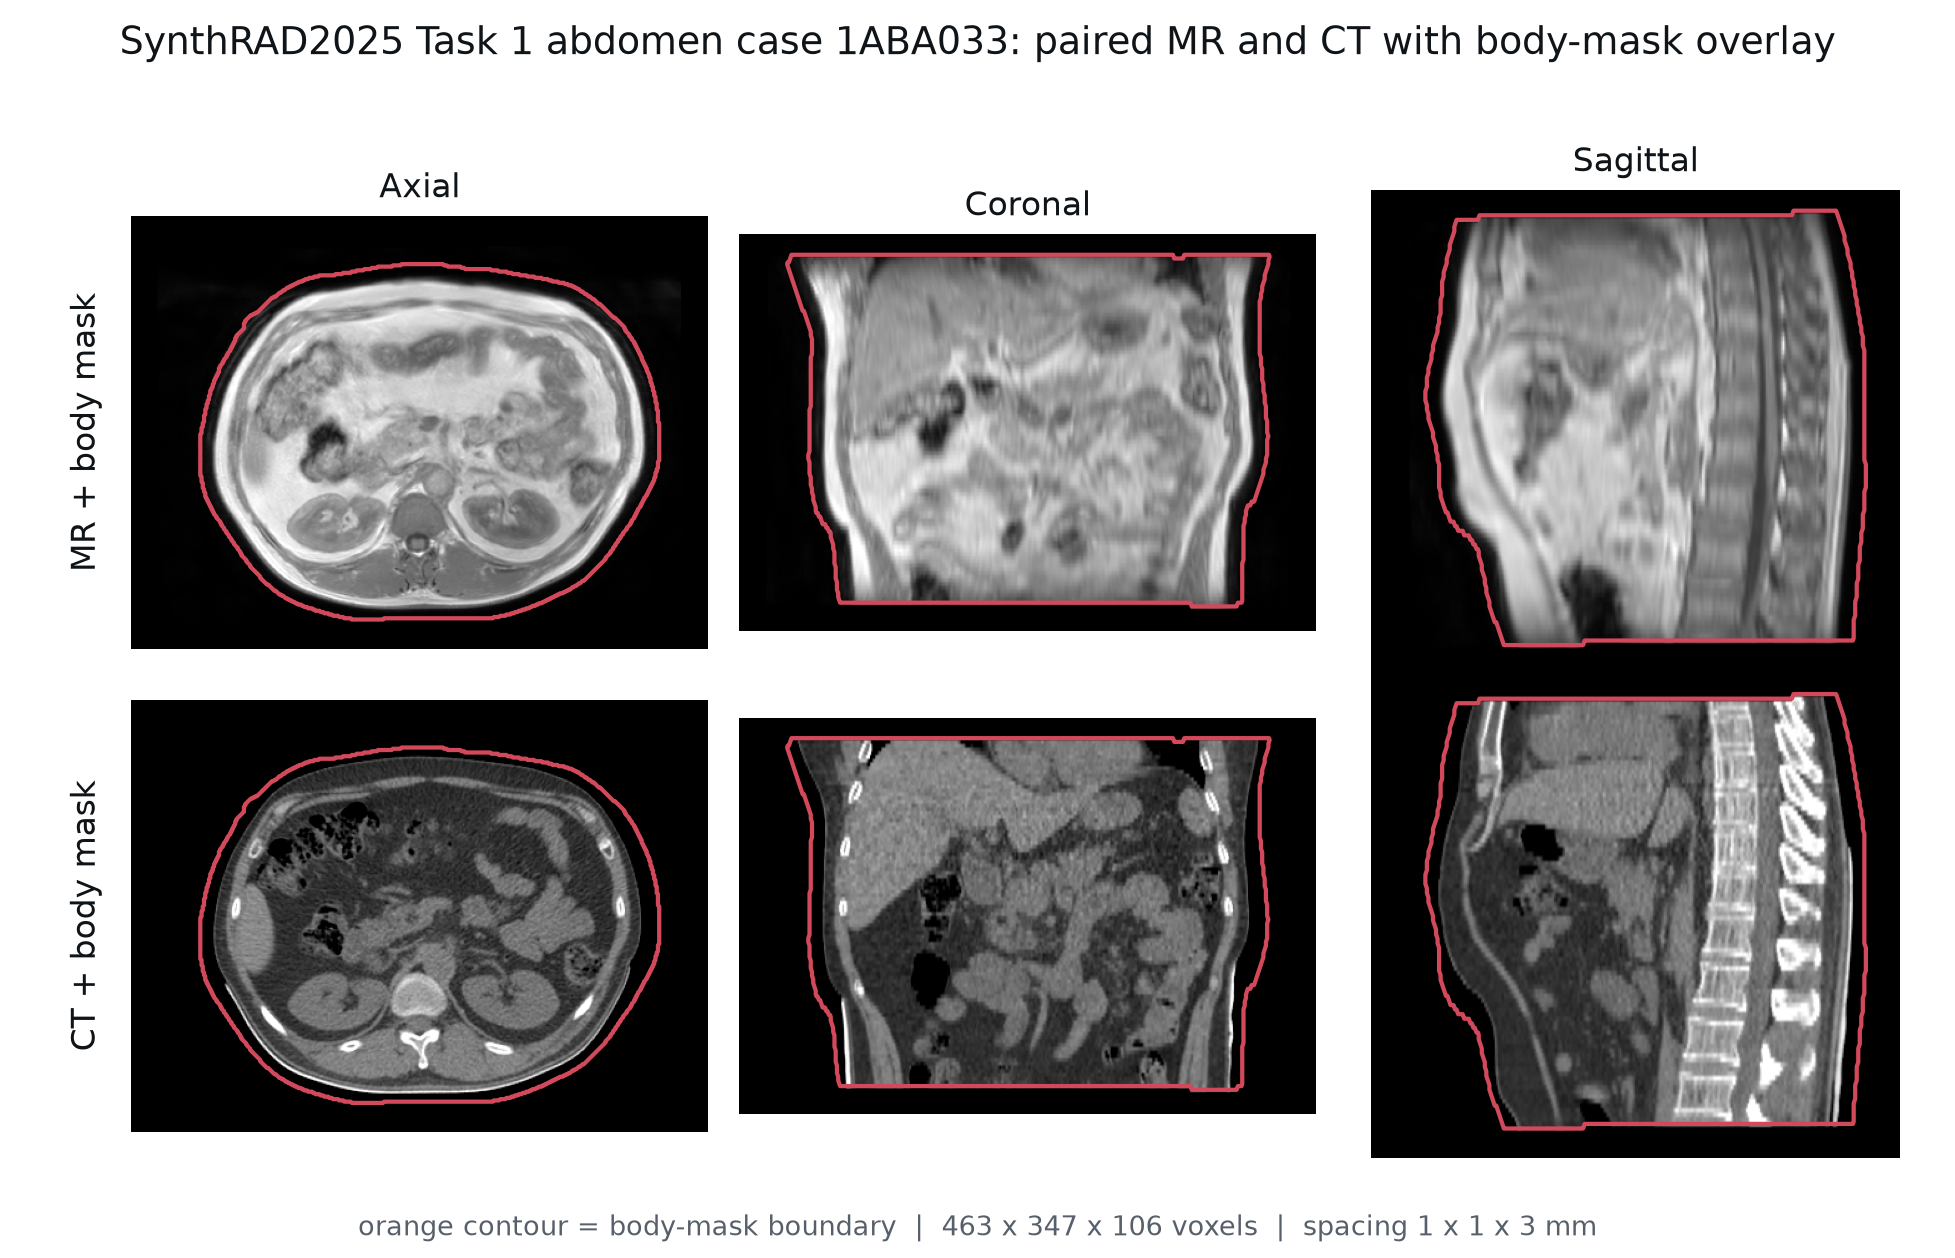
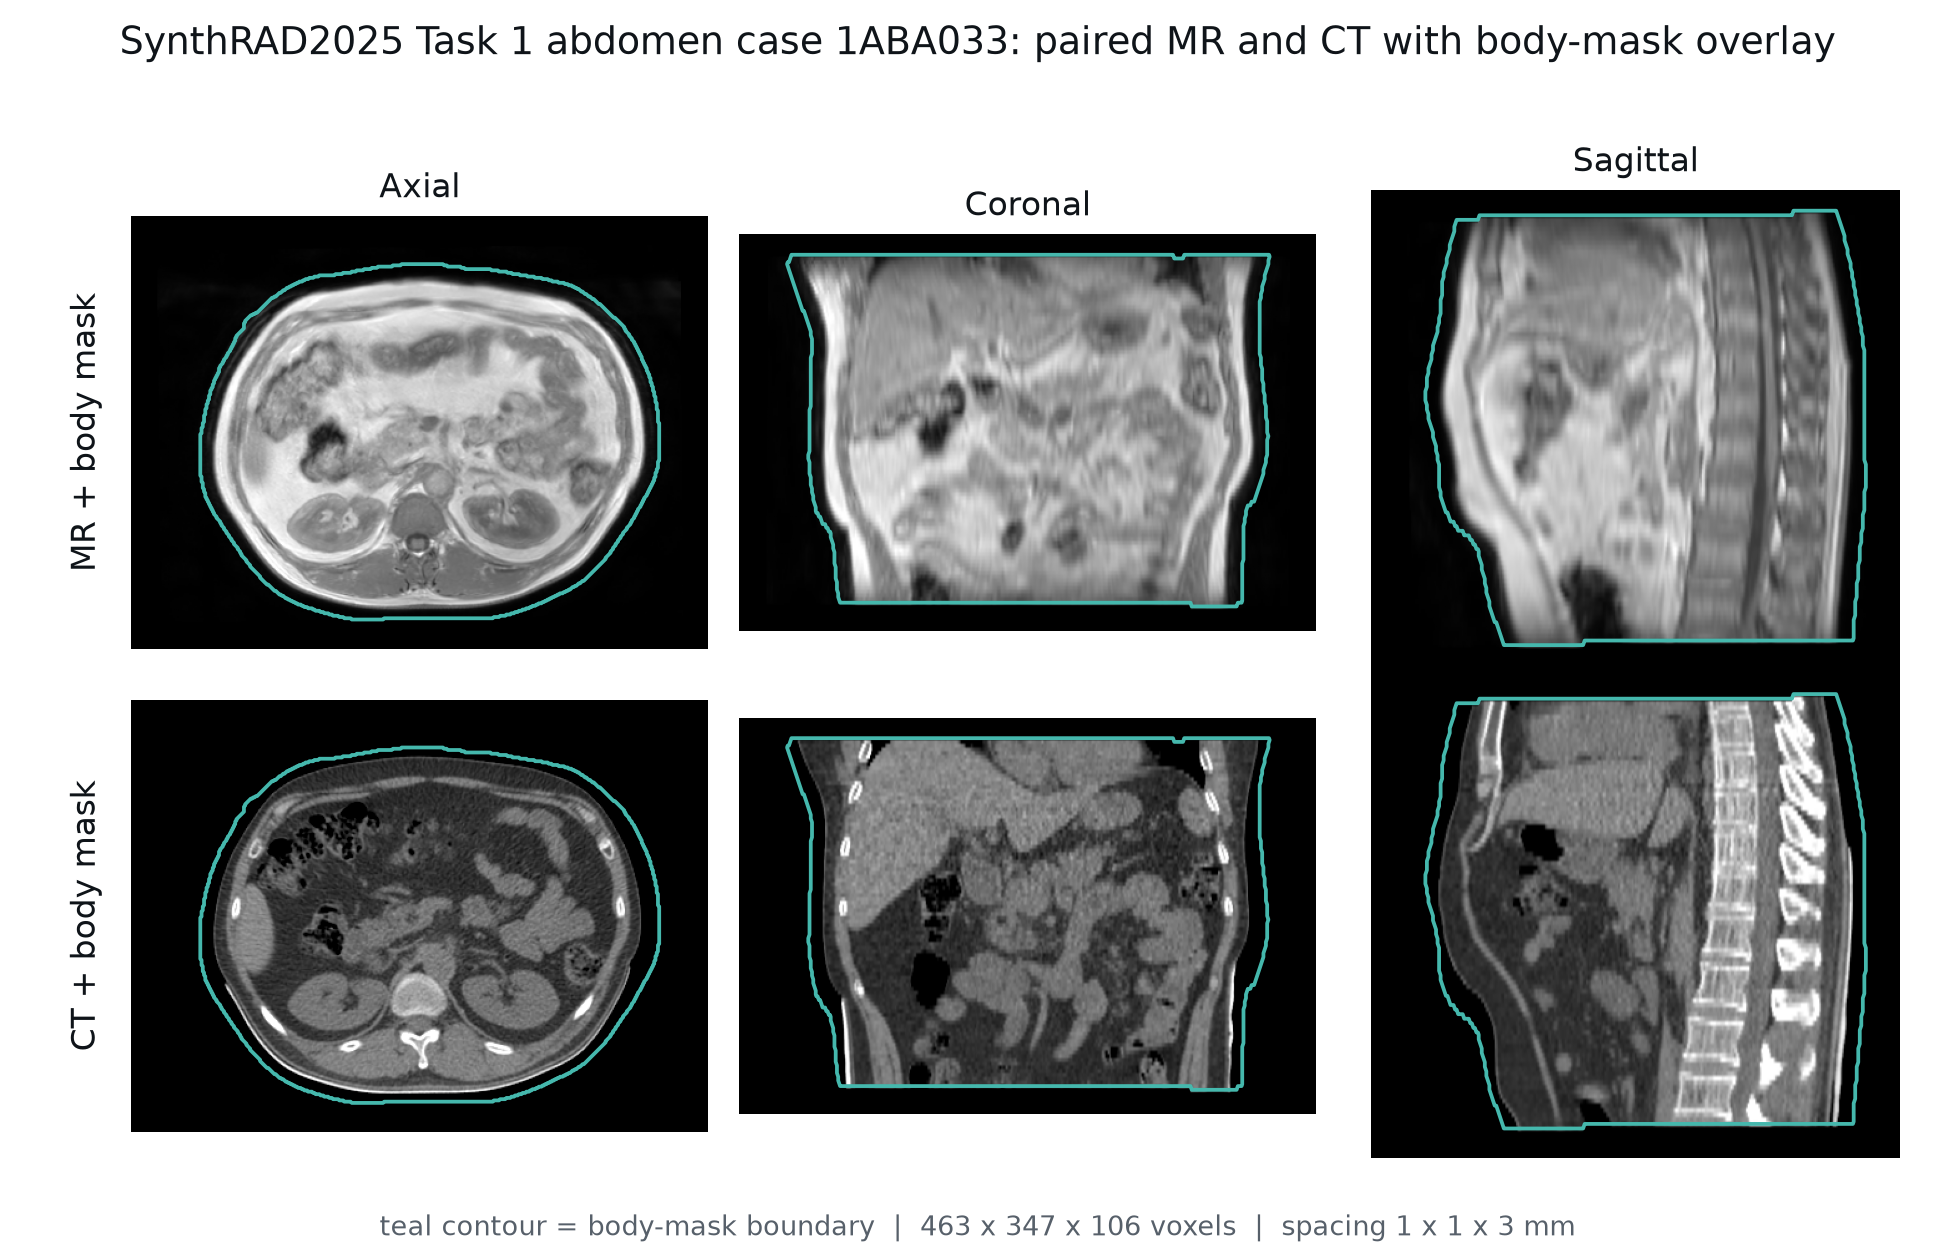
Refine hero and interactive cues

diff --git a/styles.css b/styles.css
@@ -38,7 +38,7 @@ button,summary,a{outline-offset:4px}
 .button{display:inline-flex;align-items:center;gap:10px;padding:13px 20px;border-radius:999px;color:var(--navy);background:var(--mint);font-weight:750;text-decoration:none}
 .button:hover{background:var(--white)}
 .button-small{padding:9px 15px;font-size:14px}
-.hero-grid{max-width:var(--max);margin:auto;padding:76px 34px 90px;display:grid;grid-template-columns:minmax(390px,.85fr) minmax(480px,1.15fr);gap:72px;align-items:center}
+.hero-grid{max-width:var(--max);margin:auto;padding:76px 34px 90px;display:grid;grid-template-columns:minmax(380px,.78fr) minmax(500px,1.22fr);gap:56px;align-items:center}
 .eyebrow,.section-kicker,.label,.evidence-label{margin:0 0 12px;color:var(--teal);font-size:12px;font-weight:800;letter-spacing:.13em;text-transform:uppercase}
 .hero .eyebrow,.chapter-dark .section-kicker{color:var(--mint)}
 .hero h1{margin:0;font:650 clamp(64px,8vw,112px)/.92 "Segoe UI",Arial,sans-serif;letter-spacing:-.06em}
@@ -168,7 +168,7 @@ button,summary,a{outline-offset:4px}
 .evidence-table{display:block}.evidence-table>.evidence-label{display:block}.table-wrap{overflow-x:auto;margin:16px 0}
 table{width:100%;border-collapse:collapse;background:var(--white)}th,td{padding:12px 14px;border:1px solid var(--line);text-align:center}th:first-child,td:first-child{text-align:left}th{background:var(--navy);color:var(--white)}
 
-.notebook-link{margin-top:28px;padding:16px 20px;display:flex;align-items:center;gap:20px;flex-wrap:wrap;border-top:1px solid var(--line);border-bottom:1px solid var(--line)}.notebook-link span{color:var(--muted);font-size:13px}.notebook-link a{font-weight:700}
+.notebook-link{margin-top:28px;padding:15px 18px;display:flex;align-items:center;gap:20px;flex-wrap:wrap;border:1px solid var(--line);border-left:3px solid var(--teal);border-radius:10px;background:var(--paper)}.notebook-link span{color:var(--muted);font-size:13px}.notebook-link a{font-weight:750;text-decoration-thickness:1.5px}.notebook-link a::after{content:" ↗";text-decoration:none}
 .window-diagram{margin:40px 0;display:grid;grid-template-columns:1fr 45px 1fr 45px 1fr;gap:10px;align-items:center}.window-diagram>b{text-align:center;color:var(--teal);font-size:25px}
 .window-volume,.window-stack{min-height:180px;padding:22px;display:grid;place-items:center;position:relative;border:1px solid var(--line);border-radius:var(--radius);background:var(--white);overflow:hidden}
 .window-volume i{position:absolute;width:52%;height:52%;border:2px solid var(--teal);background:rgba(45,125,120,.08)}.window-volume i:nth-child(1){left:10%;top:10%}.window-volume i:nth-child(2){left:24%;top:24%}.window-volume i:nth-child(3){left:38%;top:38%}
@@ -181,7 +181,7 @@ table{width:100%;border-collapse:collapse;background:var(--white)}th,td{padding:
 .evaluation-rule{margin:34px 0;padding:25px;display:flex;align-items:center;gap:10px;flex-wrap:wrap;border-radius:var(--radius);color:var(--white);background:var(--navy)}.evaluation-rule strong{margin-right:10px}.evaluation-rule span{padding:7px 10px;border:1px solid rgba(255,255,255,.2);border-radius:999px}.evaluation-rule p{flex-basis:100%;margin:8px 0 0;color:rgba(255,255,255,.65)}
 .run-passport{display:grid;grid-template-columns:repeat(4,1fr);gap:14px;margin:34px 0}.run-passport>div{padding:22px;border:1px solid var(--line);border-radius:var(--radius);background:var(--white)}.run-passport strong,.run-passport span{display:block}.run-passport strong{font:23px Georgia,serif}.run-passport span{margin-top:5px;color:var(--muted);font-size:13px}
 .claims article:last-child{border-color:rgba(182,83,71,.35)}.claims article:last-child .label{color:var(--danger)}
-.field-notes{margin:30px 0;border:1px solid var(--line);border-radius:var(--radius);background:var(--white)}.field-notes summary{cursor:pointer;padding:20px 24px;display:flex;justify-content:space-between;gap:20px;font-weight:800}.field-notes summary small{color:var(--muted);font-weight:400}.field-notes>div{padding:0 24px 20px}.field-notes p{margin:12px 0}
+.field-notes{margin:30px 0;border:1px solid var(--line);border-radius:var(--radius);background:var(--white)}.field-notes summary{cursor:pointer;padding:20px 24px;display:grid;grid-template-columns:1fr auto auto;align-items:center;gap:20px;font-weight:800;list-style:none}.field-notes summary::-webkit-details-marker{display:none}.field-notes summary small{color:var(--muted);font-weight:400}.field-notes summary::after{content:"Expand +";color:var(--teal);font-size:13px;font-weight:750}.field-notes[open] summary::after{content:"Close −"}.field-notes>div{padding:0 24px 20px}.field-notes p{margin:12px 0}
 
 .takeaways{list-style:none;padding:0;margin:34px 0}.takeaways li{display:grid;grid-template-columns:50px 1fr;gap:18px;padding:18px 0;border-top:1px solid var(--line)}.takeaways span{color:var(--teal);font:13px "Cascadia Code",monospace}.takeaways p{margin:0;font-size:20px;color:var(--ink)}.takeaways strong{color:var(--ink)}
 .quiz-shell{display:grid;grid-template-columns:.7fr 1.3fr;gap:30px;margin:40px 0}.quiz-intro{padding:26px;border:1px solid var(--line);border-radius:var(--radius);background:var(--paper)}.quiz-intro .label{color:var(--teal)}.quiz-intro h3{margin:5px 0;font:29px "Segoe UI",Arial,sans-serif}.quiz-intro p:last-child{color:var(--muted)}
@@ -221,7 +221,7 @@ footer{padding:28px max(34px,calc((100vw - var(--max))/2 + 34px));display:flex;a
   .framework-flow{grid-template-columns:1fr}
   .framework-flow>b{display:block!important;transform:rotate(90deg)}
   .framework-flow article:last-child{grid-column:auto}
-  .run-passport{grid-template-columns:1fr}.repo-list a{grid-template-columns:1fr;gap:5px}.field-notes summary{display:block}.field-notes summary small{display:block;margin-top:6px}
+  .run-passport{grid-template-columns:1fr}.repo-list a{grid-template-columns:1fr;gap:5px}.field-notes summary{display:block}.field-notes summary small{display:block;margin-top:6px}.field-notes summary::after{display:block;margin-top:8px}
   footer{flex-direction:column;text-align:center}
 }
 @media(max-width:480px){

diff --git a/index.html b/index.html
@@ -33,7 +33,7 @@
         </p>
         <div class="author-line" aria-label="Course authors and affiliation">
           <p><strong>Zaiyou He</strong><span> · </span><strong>Jun Ma</strong></p>
-          <p>Molecular Imaging, University Health Network, Toronto, Canada</p>
+          <p>Molecular Imaging, University Health Network</p>
         </div>
         <div class="hero-actions">
           <a class="button" href="#course">Start the course <span aria-hidden="true">↓</span></a>
@@ -117,7 +117,7 @@
         <figure class="teaching-figure">
           <img src="figures/fig01_mr_ct_mask_triplanar.png"
                alt="Aligned abdomen MRI and CT views with body-mask contours for case 1ABA033">
-          <figcaption><strong>Read the case from top to bottom.</strong> MRI is the source and CT is the numerical target; the orange contour overlays the same body-mask boundary on both. The three columns show axial, coronal, and sagittal views of case 1ABA033. · Local public-data teaching subset</figcaption>
+          <figcaption><strong>Read the case from top to bottom.</strong> MRI is the source and CT is the numerical target; the teal contour overlays the same body-mask boundary on both. The three columns show axial, coronal, and sagittal views of case 1ABA033. · Local public-data teaching subset</figcaption>
         </figure>
 
         <div class="modality-grid">

diff --git a/code/make_course_figures.py b/code/make_course_figures.py
@@ -58,6 +58,7 @@ INK = "#0f1419"
 PAPER = "#ffffff"
 ACCENT = "#1f6feb"
 WARM = "#d1495b"
+MASK_TEAL = "#45b8ad"
 
 plt.rcParams.update(
     {
@@ -137,8 +138,8 @@ def fig_mr_ct_mask(raw: dict[str, sitk.Image]) -> None:
             axes[r, c].contour(
                 mask_slices[c],
                 levels=[0.5],
-                colors=[WARM],
-                linewidths=1.8,
+                colors=[MASK_TEAL],
+                linewidths=1.6,
                 origin="lower",
             )
             if r == 0:
@@ -155,7 +156,7 @@ def fig_mr_ct_mask(raw: dict[str, sitk.Image]) -> None:
     fig.text(
         0.5,
         0.018,
-        f"orange contour = body-mask boundary  |  "
+        f"teal contour = body-mask boundary  |  "
         f"{mr.shape[2]} x {mr.shape[1]} x {mr.shape[0]} voxels  |  spacing "
         f"{spacing[0]:.0f} x {spacing[1]:.0f} x {spacing[2]:.0f} mm",
         ha="center",
